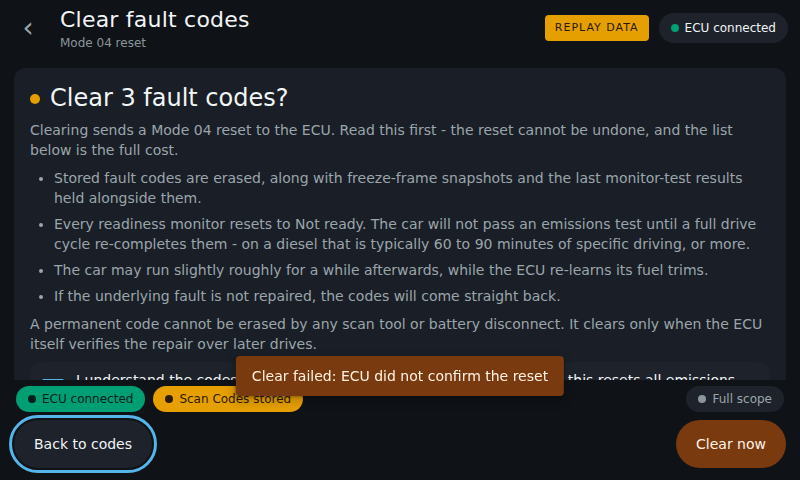
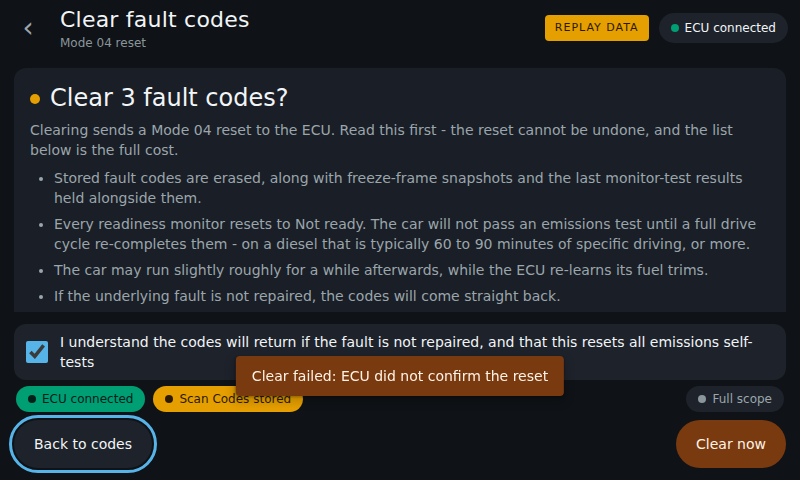
fix(s11): pin fix-first checkbox in ack footer above statebar (touch parity)

Changed region(s): [[0.0312, 0.6562, 0.9688, 0.8125], [0.7188, 0.7812, 0.9062, 0.8125]]

diff --git a/frontend/diag.js b/frontend/diag.js
@@ -1561,10 +1561,12 @@
   function renderClear() {
     var wrap = $('clearWrap');
     clear(wrap);
+    var ack = $('clearAck');
+    if (ack) { clear(ack); }
     if (!S.clear) { S.clear = { stage: 'confirm', checked: false, result: null, error: null, guide: false, rereading: false }; }
     if (S.clear.stage === 'done') { renderClearDone(wrap); }
     else if (S.clear.stage === 'working') { renderClearWorking(wrap); }
-    else { renderClearConfirm(wrap); }
+    else { renderClearConfirm(wrap, ack); }
   }
 
   function clearHead(wrap, sev, headline) {
@@ -1576,7 +1578,7 @@
     return card;
   }
 
-  function renderClearConfirm(wrap) {
+  function renderClearConfirm(wrap, ack) {
     var counts = clearCounts();
     var total = counts.stored + counts.pending + counts.permanent;
     var card = clearHead(wrap, 'warn',
@@ -1601,7 +1603,12 @@
     // Fix-first checkbox: a wrapping label is the .ctl (one focus stop, not
     // two). label.click() forwards to the input, so knob/shim 'activate',
     // keyboard space/enter and touch all toggle through the same 'change'
-    // event with no double-toggle.
+    // event with no double-toggle. The row lives in the #clearAck footer
+    // BELOW the scroll region (t_ef0df5b1), never inside the card: inside the
+    // scroller it overflowed #main under the statebar chips at 800x480, where
+    // touch taps landed on the chip instead of the box. DOM order is
+    // unchanged (ack follows the scroller), so the knob/shim walk order -
+    // checkbox, then the action-bar buttons - is exactly as before.
     var row = el('label', 'check-row ctl');
     var box = document.createElement('input');
     box.type = 'checkbox';
@@ -1614,7 +1621,7 @@
     });
     row.appendChild(box);
     add(row, el('span', null, COPY.clearFixFirst));
-    add(card, row);
+    add(ack || card, row);
     var meta = el('p', 'stamp', counts.stored + ' stored \u00b7 ' + counts.pending +
       ' pending \u00b7 ' + counts.permanent + ' permanent \u00b7 ' +
       'from the last scan' + (S.scanAt ? ' (' + S.scanAt.toLocaleTimeString() + ')' : ''));

diff --git a/frontend/diag.css b/frontend/diag.css
@@ -662,6 +662,18 @@ body.reduced-motion .track-fill { animation: none; width: 100%; opacity: .5; }
   accent-color: var(--info);
   cursor: pointer;
 }
+/* S11 ack footer (t_ef0df5b1): the fix-first row gates a destructive action,
+ * so it is pinned BELOW the scroll region instead of living inside it. The
+ * old layout put the row last inside #clearWrap, whose flex item never shrank
+ * (default min-height:auto), so the row overflowed #main and painted under
+ * the statebar chips - keyboard/wheel could still toggle it, but touch taps
+ * landed on the chip. Now the consequence list scrolls above while the ack
+ * row sits in the grid's main row, where no overlay can cover it. S11-only;
+ * every other screen is untouched. */
+#S11.active #clearWrap { flex: 1 1 auto; min-height: 0; }
+#clearAck { flex: 0 0 auto; }
+#clearAck:empty { display: none; }
+#clearAck .check-row { margin-top: 0; }
 
 /* ---------------------------------------------------------------- focus */
 

diff --git a/frontend/diag.html b/frontend/diag.html
@@ -101,6 +101,7 @@
     <!-- S11 - clear fault codes (Mode 04, two-screen confirm flow) -------- -->
     <section class="screen" id="S11" aria-label="Clear fault codes">
       <div class="scroll" id="clearWrap"></div>
+      <div id="clearAck"></div>
     </section>
 
   </main>

diff --git a/smoke/clear_smoke.py b/smoke/clear_smoke.py
@@ -1,11 +1,12 @@
 #!/usr/bin/env python3
-"""Playwright smoke for the S11 Mode-04 clear flow (800x480, keyboard only).
+"""Playwright smoke for the S11 Mode-04 clear flow (800x480, keyboard-led).
 
 Serves the real page from a replay backend; mocks /scan (fast, with codes).
 The happy path drives the REAL POST /clear; 400/409/502 + the slow timeout
 stay mocked. Asserts the full two-step walk, knob/shim reachability, both
-outcome states, the offline gate, and zero app console errors. Screenshots
-land next to this script.
+outcome states, the offline gate, the S11 ack-footer geometry + a real
+touch-tap parity proof (t_ef0df5b1), and zero app console errors.
+Screenshots land next to this script.
 
 Run from the repo root:  python3 smoke/clear_smoke.py
 Needs: replay backend on 127.0.0.1:44419
@@ -50,6 +51,54 @@ def arrows_to(page, needle, limit=14):
 
 def screen(page):
     return page.evaluate("document.body.getAttribute('data-screen')")
+
+
+def ack_geometry(page):
+    """Rects + hit-test points for the S11 fix-first gate (t_ef0df5b1)."""
+    return page.evaluate("""(() => {
+      const R = s => { const e = document.querySelector(s);
+        if (!e) return null; const r = e.getBoundingClientRect();
+        return {top: r.top, bottom: r.bottom, left: r.left, right: r.right}; };
+      const b = document.querySelector('#clearFixFirst');
+      const r = b ? b.getBoundingClientRect() : null;
+      const pts = r ? [[r.left + r.width / 2, r.top + r.height / 2],
+                       [r.left + 8, r.top + r.height / 2],
+                       [r.right - 8, r.top + r.height / 2],
+                       [r.left + r.width / 2, r.top + 8],
+                       [r.left + r.width / 2, r.bottom - 8]] : [];
+      const hits = pts.map(p => { const h = document.elementFromPoint(p[0], p[1]);
+        return h ? (h.id || (h.tagName + '.' + h.className)) : null; });
+      return {box: R('#clearFixFirst'), row: R('#clearAck .check-row'),
+              statebar: R('#stateBar'), actions: R('#actions'), hits: hits,
+              cx: r ? r.left + r.width / 2 : null,
+              cy: r ? r.top + r.height / 2 : null};
+    })()""")
+
+
+def check_ack_geometry(page, stage):
+    # t_ef0df5b1: the fix-first gate must sit fully visible in the S11 ack
+    # footer (below the scroller, above the statebar) - never under an
+    # overlay - both at initial open and after the keyboard walk. The old
+    # layout failed this: checkbox y 379..401 vs scroller bottom 380 with
+    # elementFromPoint hitting SPAN.state-chip, so touch taps never reached
+    # the box. (The checkbox intentionally lives OUTSIDE .scroll now, so the
+    # assertion is footer-placement, not scroller-containment.)
+    g = ack_geometry(page)
+    check("s11 ack (%s): row above statebar" % stage,
+          g["row"] and g["statebar"]
+          and g["row"]["bottom"] <= g["statebar"]["top"],
+          repr(g["row"]))
+    check("s11 ack (%s): row above actions bar" % stage,
+          g["row"] and g["actions"]
+          and g["row"]["bottom"] <= g["actions"]["top"],
+          repr(g["row"]))
+    check("s11 ack (%s): row inside 800x480" % stage,
+          g["row"] and g["row"]["top"] >= 0 and g["row"]["bottom"] <= 480,
+          repr(g["row"]))
+    check("s11 ack (%s): hit test is the checkbox x5" % stage,
+          g["hits"] and all(h == "clearFixFirst" for h in g["hits"]),
+          repr(g["hits"]))
+    return g
 
 
 def txt(page, sel):
@@ -105,7 +154,11 @@ def main():
     errors = []
     with sync_playwright() as pw:
         browser = pw.chromium.launch()
-        ctx = browser.new_context(viewport={"width": 800, "height": 480})
+        # has_touch: the kiosk is a touch surface; the S11 parity proof taps
+        # the real coordinates (t_ef0df5b1). Keyboard/mouse behaviour is
+        # unchanged by the flag.
+        ctx = browser.new_context(viewport={"width": 800, "height": 480},
+                                  has_touch=True)
         state = {"scan_calls": 0, "clear_mode": "ok",
                  "saw_shake": False, "health_mode": "real",
                  "pending_clear": []}
@@ -228,6 +281,23 @@ def main():
                   box and not box.is_checked())
             page.screenshot(path=os.path.join(HERE, "clear-screen1.png"))
 
+            # t_ef0df5b1 parity proof, initial-open state: geometry first,
+            # then a REAL touch tap on the coordinates (not a click()). The
+            # second tap restores unchecked so the keyboard walk below starts
+            # exactly where it used to.
+            g0 = check_ack_geometry(page, "initial-open")
+            page.touchscreen.tap(g0["cx"], g0["cy"])
+            page.wait_for_timeout(250)
+            check("touch tap toggles the checkbox",
+                  page.query_selector("#clearFixFirst").is_checked())
+            check("touch tap enables Clear now",
+                  not page.query_selector(
+                      "#actions button.btn-danger").is_disabled())
+            page.touchscreen.tap(g0["cx"], g0["cy"])
+            page.wait_for_timeout(250)
+            check("touch tap toggles back off",
+                  not page.query_selector("#clearFixFirst").is_checked())
+
             # knob/shim reachability over the same DOM. Clear-now is gated
             # (disabled skips the ring, like every disabled control), so
             # check the box first, then walk: all three stops must appear.
@@ -274,6 +344,9 @@ def main():
                 check("clear-now enables",
                       not page.query_selector(
                           "#actions button.btn-danger").is_disabled())
+                # t_ef0df5b1 parity proof, post keyboard-walk state: the gate
+                # must still be fully visible and touch-tappable.
+                check_ack_geometry(page, "post-walk")
                 if not arrows_to(page, "Clear now"):
                     check("keyboard finds Clear now", False)
                 else:

diff --git a/CHANGELOG.md b/CHANGELOG.md
@@ -2,6 +2,30 @@
 
 All notable changes. Format: date — phase — what.
 
+## 2026-09-24 — S11 fix-first checkbox geometry fix (frontend, branch `fix-s11-checkbox`)
+
+### Fixed
+- S11 `Clear fault codes`: the fix-first checkbox row moved out of the scroll
+  region into a pinned ack footer (`#clearAck`) below it. At 800x480 the row
+  used to overflow `#main` (checkbox y 379..401 vs scroller bottom 380) and
+  paint under the statebar chips, so keyboard/wheel could toggle it but touch
+  taps landed on `SPAN.state-chip` — input parity broken on the gate for a
+  destructive action. The consequence list + stamps still scroll above; the ack
+  row sits in the grid's main row where no overlay can cover it. S11-only:
+  no other screen, no seam contract, no confirm gate touched.
+- `smoke/clear_smoke.py`: 11 new checks (57 total) — ack-footer geometry
+  (row above statebar/actions, inside 800x480, 5-point `elementFromPoint` hit
+  test) at initial open AND after the keyboard walk, plus a real touch tap
+  (touchscreen, not click) proving the tap toggles the box and enables
+  `Clear now`. Context now `has_touch=True` (kiosk is a touch surface).
+
+### Verified
+- `python3 smoke/clear_smoke.py`: 57/57, zero app console/page errors (old 46
+  intact, none weakened).
+- `python3 tools/contrast_audit.py` exit 0 (dark + light + fallback).
+- `python3 -m unittest discover -s backend/tests -t .`: 169 run green
+  (skipped=2), backend untouched (`git diff master -- backend/` empty).
+
 ## 2026-09-24 — Two-screen DTC-clear confirm flow (frontend, branch `fe-clear-dtc`)
 
 ### Added
